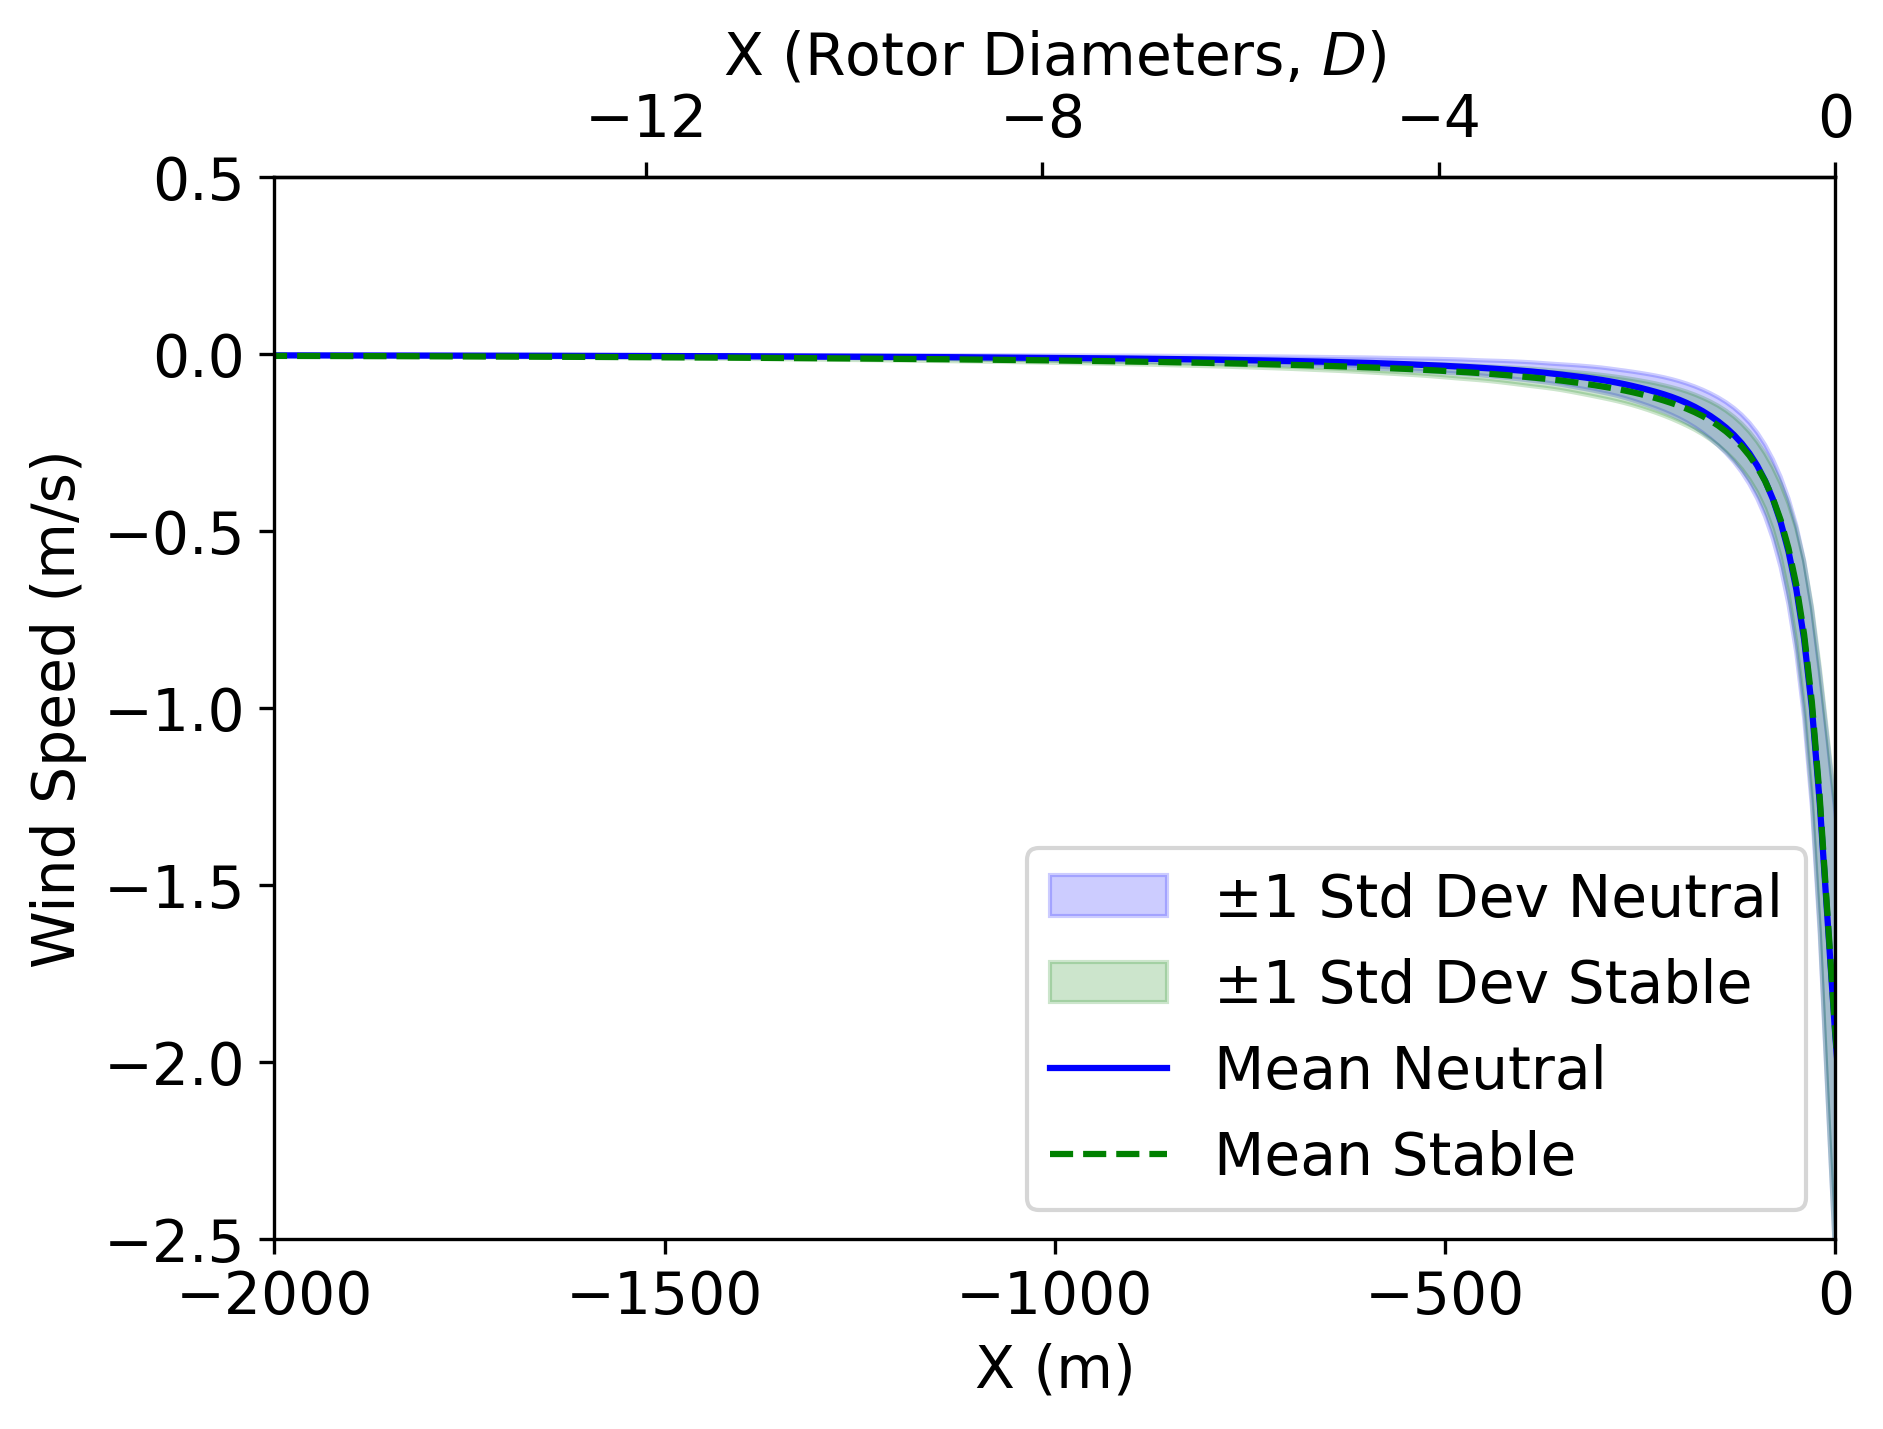
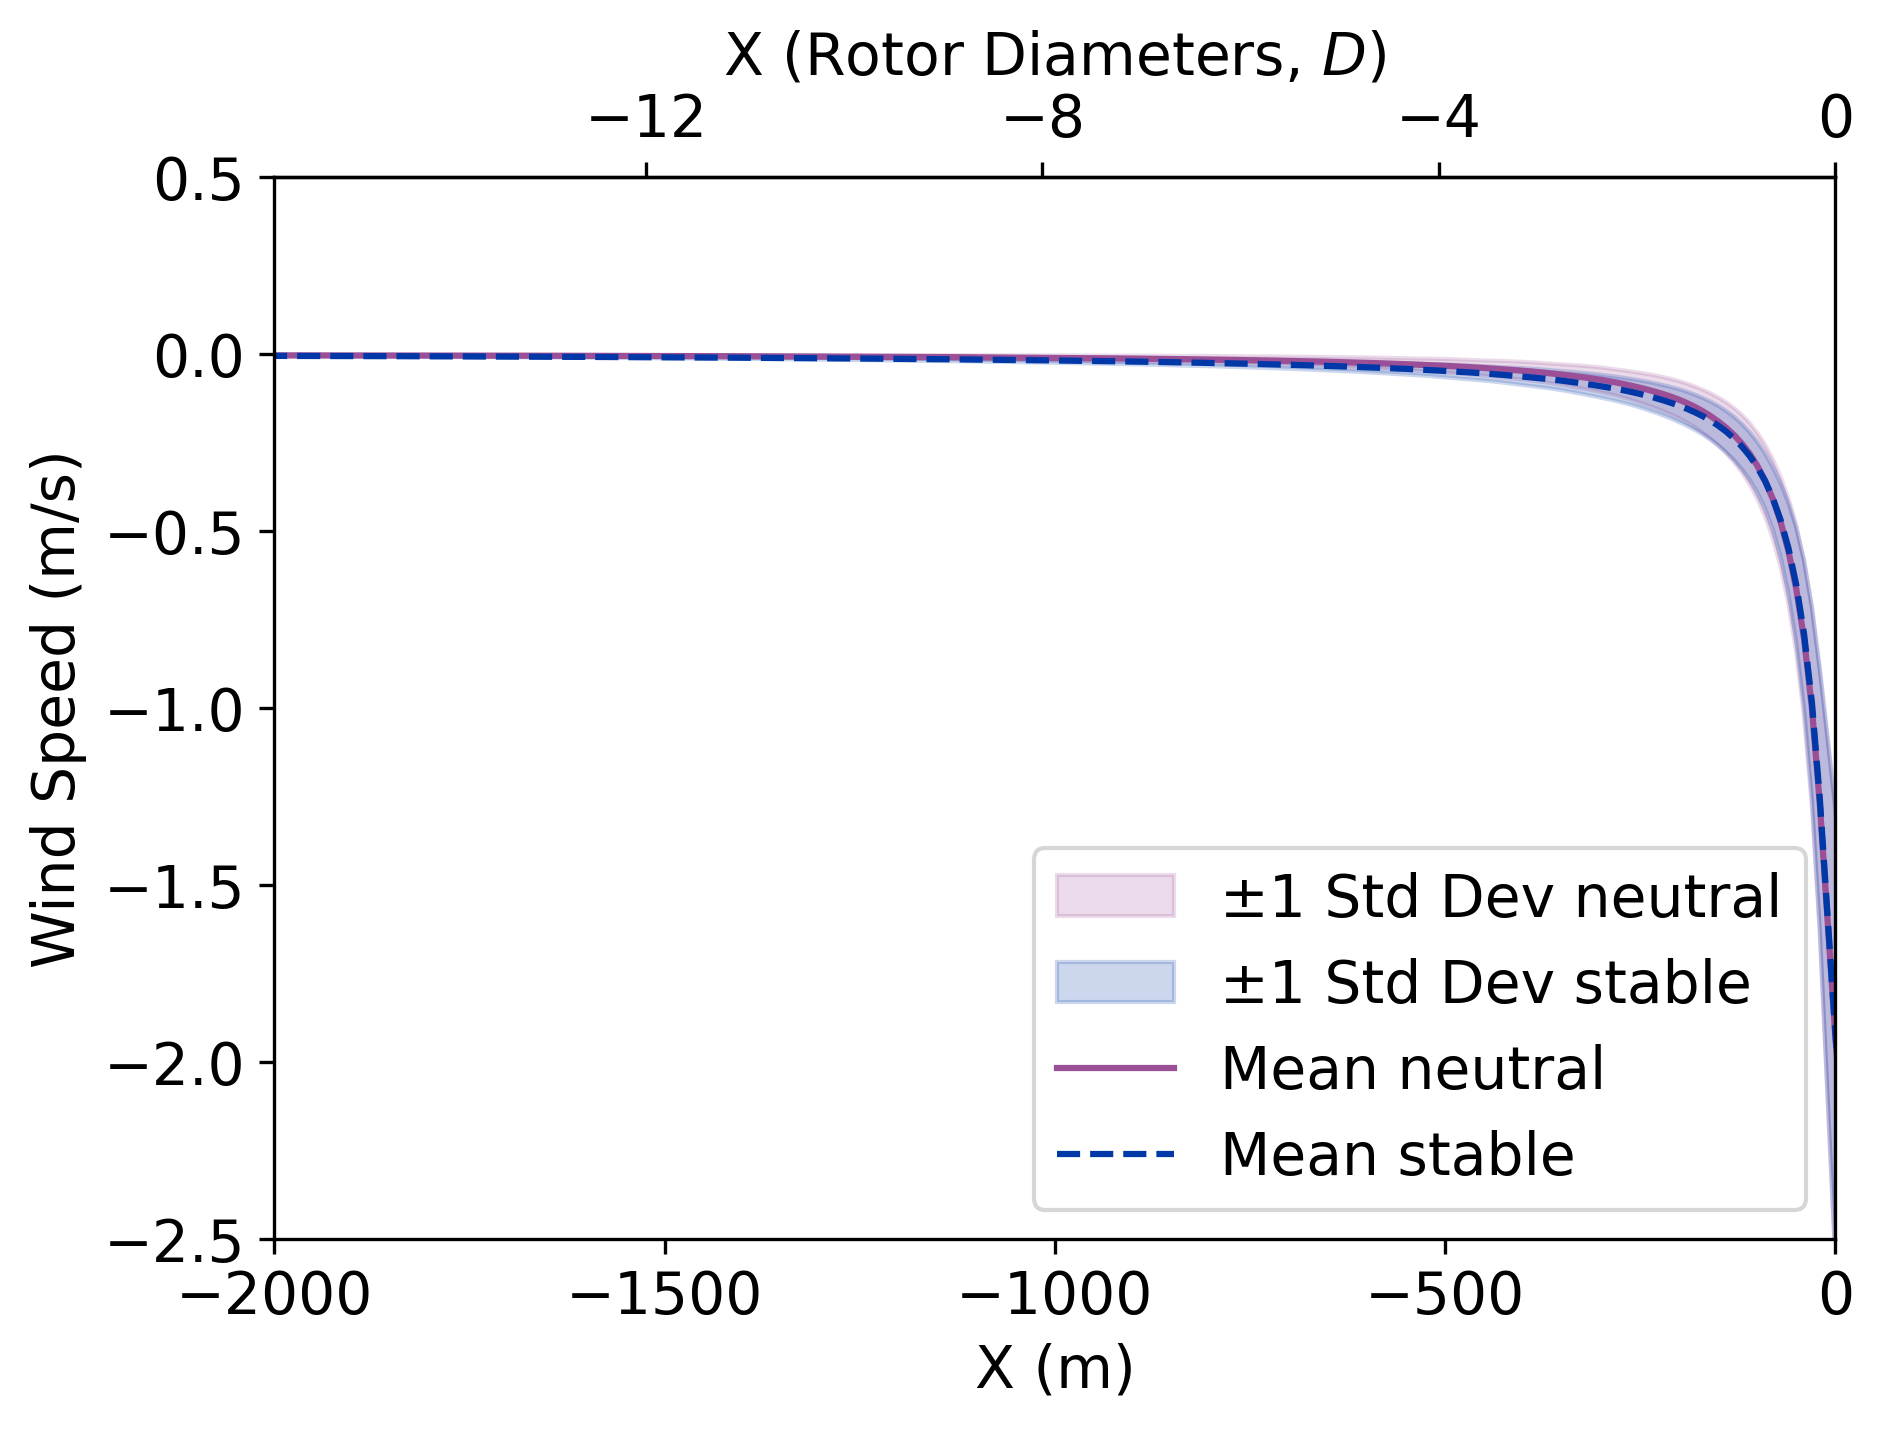
standardize neutral/stable colours

Changed region(s): [[0.154, 0.2463, 0.9857, 0.8314]]

diff --git a/both_axial_wind_speed.py b/both_axial_wind_speed.py
@@ -8,8 +8,8 @@ panel_labels = ['a', 'b']
 neutral = pd.read_csv('axial_wind_speed_neutral.csv', index_col=0, header=0)
 stable = pd.read_csv('axial_wind_speed_stable.csv', index_col=0, header=0)
 datasets = [neutral, stable]
-labels = ['Neutral', 'Stable']
-colors = ['blue', 'green']
+labels = ['neutral', 'stable']
+colors = ["#9B4F96", "#0038A8"]
 linestyles = ['solid', 'dashed']
 
 # --- Secondary axis ---
